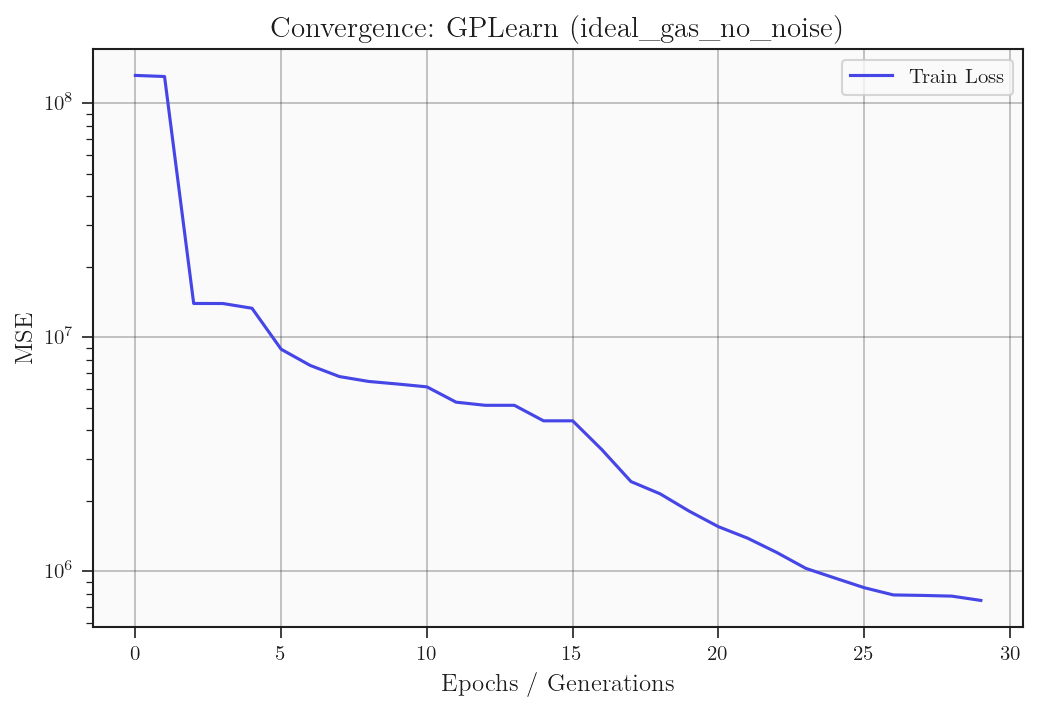
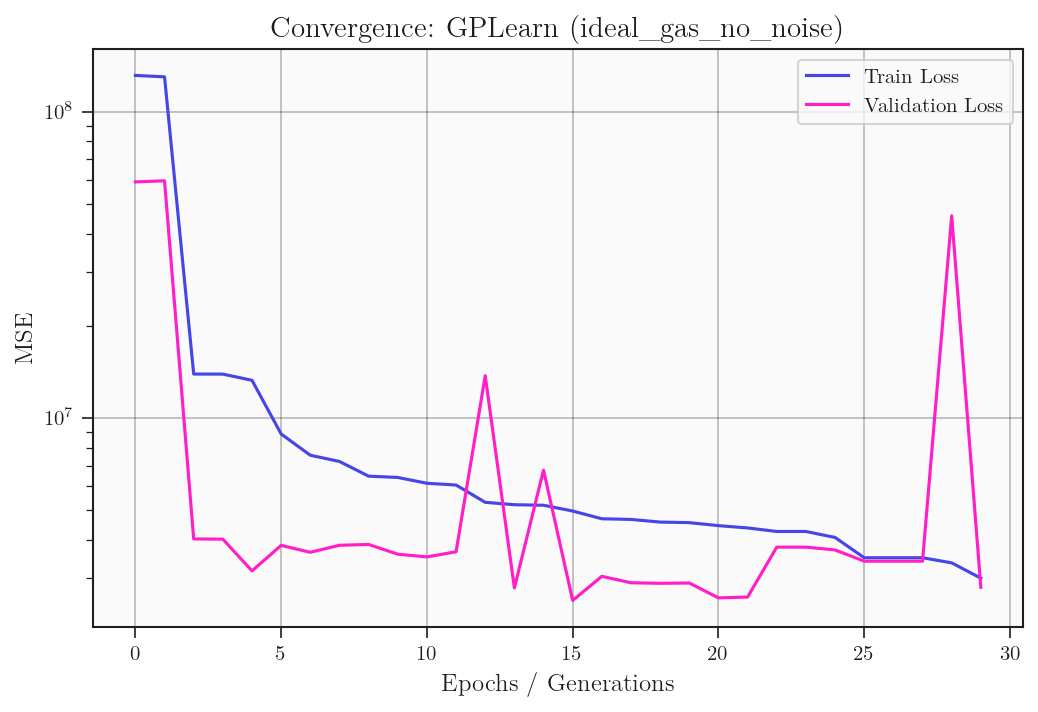
Loss Graph working correctly

diff --git a/src/main.py b/src/main.py
@@ -34,7 +34,7 @@ models_to_run = [
     # "MLP_Dropout",
     # "Polynomial",
     # "PySR",
-    # "GPLearn",
+    "GPLearn",
     # "PySINDy",
     "QLattice" 
     ]
@@ -44,10 +44,10 @@ if len(models_to_run) == 0:
 # Conjunto de archivos que se procesarán. Deben estar ubicados en la carpeta data 
 def run_all_experiments():
     datasets_info = [
-        {"file": "oscillator_no_noise.csv", "target": "F"},
+        # {"file": "oscillator_no_noise.csv", "target": "F"},
         # {"file": "kepler_no_noise.csv", "target": "T"},
-        # {"file": "coulomb_no_noise.csv", "target": "F"},
-        # {"file": "ideal_gas_no_noise.csv", "target": "P"}
+        {"file": "coulomb_no_noise.csv", "target": "F"},
+        {"file": "ideal_gas_no_noise.csv", "target": "P"}
     ]
 
 
